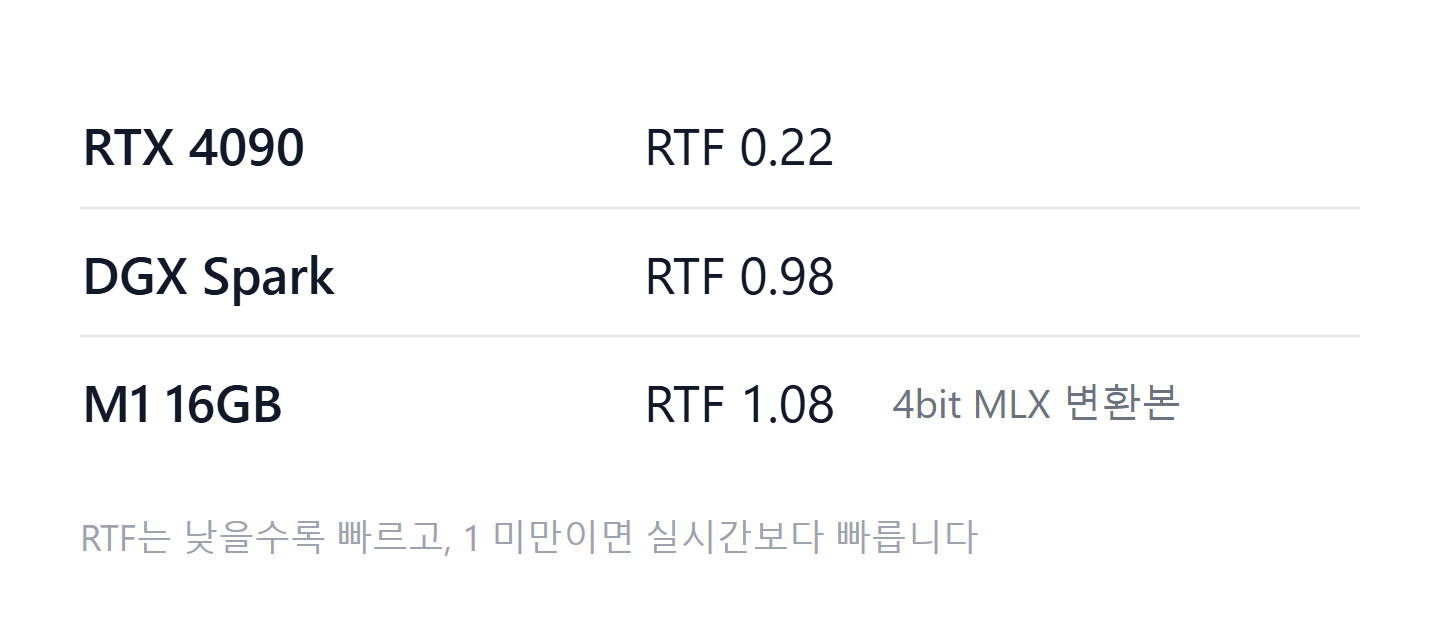
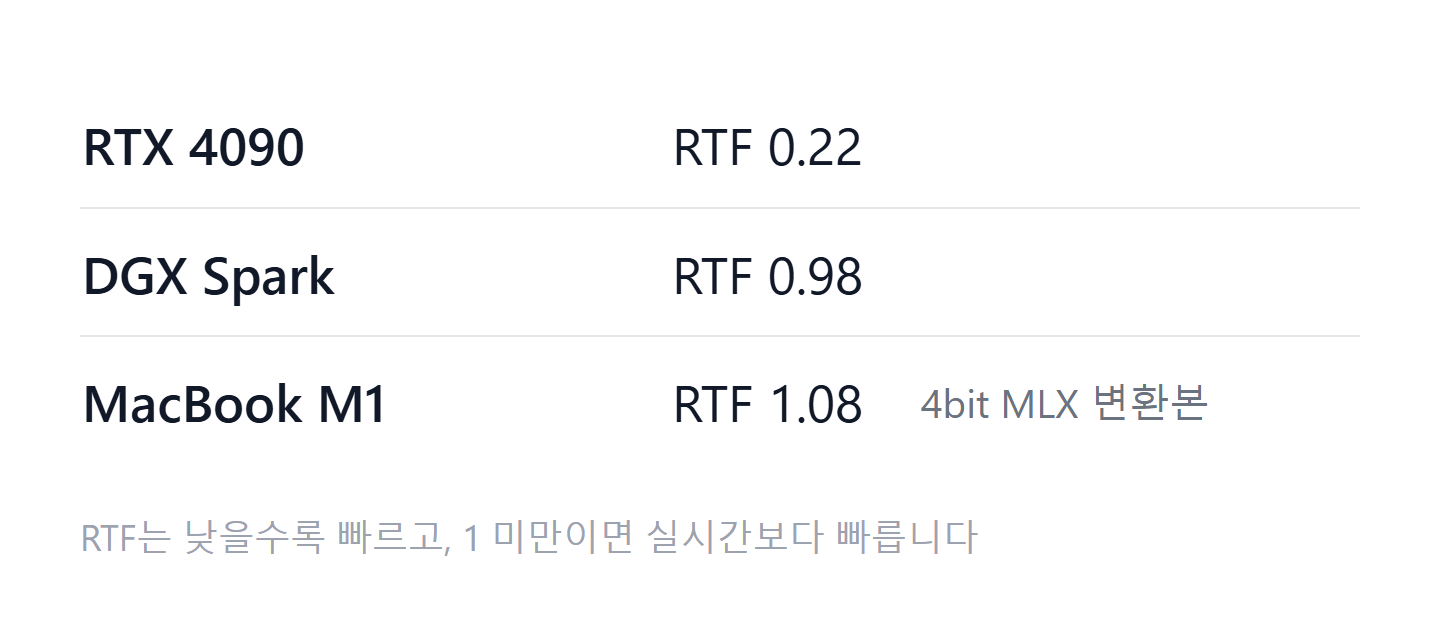
Release v0.0.4

diff --git a/releases/speaker-diarization-vibevoice/report.md b/releases/speaker-diarization-vibevoice/report.md
@@ -1,201 +1,163 @@
-# 세 머신에서 돌린 VibeVoice-ASR
+# VibeVoice-ASR 긴 회의 전사 리포트
 
-## 1. 무엇인가
+## 1. 한 줄 정의
 
-회의를 받아 적으면서 누가 말했는지 표시하고 모든 구간에 타임스탬프를 붙이는 Microsoft의
-음성 인식 모델이다. 최대 60분 길이의 오디오를 한 번에 처리한다.
+`microsoft/VibeVoice-ASR`는 최대 60분 길이의 오디오를 한 번에 받아, 누가(화자)·언제(타임스탬프)·무엇을(내용) 말했는지를 하나의 생성 결과로 내놓는 Microsoft의 음성 인식 모델이다.
 
 ## 2. 무엇이 다른가
 
-두 가지이고, 아래 벤치마크가 실제로 다루는 것은 두 번째다.
+첫째, 전사·화자 분리·타임스탬프가 하나의 디코딩이다. 기존 파이프라인이 VAD, ASR, diarization 모델을 이어 붙이는 것과 달리, 논문은 이 모델이 "unifies Automatic Speech Recognition, Speaker Diarization, and Timestamping into a single end-to-end generation task"라고 설명한다. 출력은 "a structured sequence that explicitly interleaves speaker identity ('Who'), temporal boundaries ('When'), and speech content ('What')"이다.
 
-**7.5 Hz 토크나이저.** 24000 Hz 오디오를 hop length 3200으로 압축해 초당 7.5개 토큰으로
-만든다. 그래서 한 시간 분량의 음성이 프레임 단위 모델이라면 수십만 개가 될 토큰 대신
-27000개의 음향 토큰이 된다. 한 시간이 컨텍스트 윈도우 안에 들어갈 수 있는 이유가 이것이다.
+둘째, 오디오를 청크로 잘라 따로 판단하지 않는다. Acoustic Tokenizer와 Semantic Tokenizer가 오디오를 초당 약 7.5 토큰의 연속 임베딩으로 줄이고, 이 낮은 토큰율 덕분에 60분 오디오가 64K 토큰 컨텍스트 하나에 들어간다. 내부적으로는 60초 단위로 인코딩하지만 합성곱 상태를 이어 받아 청크 경계에서 컨텍스트가 끊기지 않는다(예제 `README.md`의 "How it works").
 
+```mermaid
+flowchart LR
+  audio["오디오 (최대 60분)"] --> acoustic["Acoustic Tokenizer"]
+  audio --> semantic["Semantic Tokenizer"]
+  acoustic --> embeddings["연속 임베딩<br/>약 7.5 토큰/초"]
+  semantic --> embeddings
+  prompt["핫워드·배경 정보<br/>(context_info)"] --> llm
+  embeddings --> llm["decoder-only LLM<br/>(논문: e.g., Qwen 2.5)"]
+  llm --> output["Who · When · What<br/>교차 출력 한 번"]
 ```
-24000 Hz audio ─▶ acoustic tokenizer ─┐
-                                      ├─▶ Qwen2 decoder ─▶ text, speaker, timestamps
-                  semantic tokenizer ──┘   28 layers, hidden 3584, 4 key-value heads
-                     both at 7.5 Hz
-```
 
-**파이프라인이 아니라 한 번의 디코딩.** 보통은 받아 적는 모델과 별도의 화자 분리 모델을
-돌린 뒤 두 출력을 맞춘다. 여기서는 한 번의 디코딩에서 단어, 화자, 시각이 함께 나온다.
-아래 정확도 절이 word error rate만이 아니라 tcpWER을 보고하는 이유다. word error rate는
-이 모델이 내놓는 것의 3분의 1만 채점한다.
-
-체크포인트는 8,674,021,857개 파라미터, `bfloat16` 기준 17.35 GB이고 모듈별로 고르게
-나뉘어 있지 않다.
-
-| 모듈 | 크기 | 비중 |
-|---|---|---|
-| `model.language_model` | 14.14 GB | 81.5% |
-| `model.acoustic_tokenizer` | 1.37 GB | 7.9% |
-| `lm_head` | 1.09 GB | 6.3% |
-| `model.semantic_tokenizer` | 0.69 GB | 4.0% |
-| 커넥터 | 0.06 GB | 0.4% |
-
-추정치가 아니라 체크포인트의 가중치 인덱스에서 직접 읽은 값이다. 5절에서 이 값이 중요해진다.
+출처: [arXiv:2601.18184](https://arxiv.org/abs/2601.18184), [`microsoft/VibeVoice-ASR` 모델 카드](https://huggingface.co/microsoft/VibeVoice-ASR).
 
 ## 3. 무엇을 만들었나
 
-`releases/speaker-diarization-vibevoice`는 모델을 HTTP 엔드포인트와 웹 인터페이스에 연결하는
-`model-compose.yml`이다. 오디오 파일을 올리고 필요하면 핫워드를 넣으면, 화자별로 색이
-구분된 구간 목록과 타임라인이 나온다.
+`model-compose` 예제 `speaker-diarization-vibevoice`는 오디오 파일 하나를 떨어뜨리면 `transcribe-meeting` 워크플로우를 WebSocket으로 호출하고, 돌아온 `{ text, start_time, end_time, speaker_id }` 세그먼트를 화자별 색상 타임라인과 세그먼트 목록으로 동시에 그린다. 타임라인은 실제 시작·종료 시각에 맞춰 배치되므로 대본을 읽지 않고도 누가 얼마나 길게, 누구 말을 끊고 말했는지가 보인다. 핫워드 입력란은 도메인 용어를 `context_info`로 모델에 넘긴다.
 
-![화자별로 색이 구분된 구간 목록, 타임라인, 선택한 구간의 텍스트를 보여주는 전사 인터페이스](media/speaker-diarization-vibevoice.png)
+![speaker-diarization-vibevoice 화면](media/speaker-diarization-vibevoice.png)
 
-화면의 샘플 데이터는 손으로 쓴 픽스처가 아니라 이 리포트의 AMI 실측 결과다. 이렇게 바꾸면서
-손으로 쓴 픽스처가 가리고 있던 결함 두 개가 드러났다. 모델은 화자가 없는 비음성 이벤트를
-별도 구간으로 내보내는데 이것이 `Speaker NaN`으로 렌더링됐고, 인터페이스에는 구간의 전체
-텍스트를 읽을 곳이 없었다. 목록은 텍스트를 자르고, 옆 패널에는 타임라인만 있었다.
+이 스크린샷은 라이브 서버가 아니라 `ui/fixture.json`으로 렌더링한 화면이다(하단 "Showing sample output"). fixture의 세그먼트는 아래 4장의 RTX 4090 실행 전사(`benchmarks/transcripts/rtx-4090.json`) 앞부분과 같다. 두 번째 발화가 "so you can see"로, DGX Spark 전사의 "so people can see"가 아니라 4090 쪽과 일치한다.
 
-발견하기 전에 밝혀둘 캡처 한계가 있다. `position: fixed` 콘텐츠는 화면에 실제로 열려 있어도
-헤드리스 캡처에 그려지지 않는다. 그래서 여기 실린 미디어는 제대로 캡처되는 상태, 즉 팝오버가
-닫힌 상태를 기준으로 연출했다.
+데모 영상은 이번에 만들지 않았다. 녹화하게 되면 헤드리스 캡처의 한계를 알고 시작해야 한다. `position: fixed`로 뜨는 팝오버(드롭다운 메뉴, 색상 선택기)는 화면에 열려 있어도 헤드리스 `screenshot`이나 screencast 프레임에 그려지지 않는 경우가 많다. 이 화면에는 그런 팝오버가 없지만, 나중에 추가된다면 닫힌 상태나 선택 결과가 이미 반영된 상태로 녹화 흐름을 짜야 한다.
 
 ## 4. 성능
 
-모든 머신에서 같은 오디오 파일 하나를 썼다. AMI 회의 ES2004a, 헤드셋 믹스, 1049.35초
-(17.5분), 화자 4명이며 AMI 코퍼스에서 내려받았다.
+### 조건
 
-| 머신 | 런타임 | 빌드 | 수치 형식 | 콜드 스타트 | TTFO | E2E | RTF | 최대 가속기 메모리 | 최대 상주 메모리 |
-|---|---|---|---|---|---|---|---|---|---|
-| RTX 4090 | model-compose + pytorch 2.11.0+cu128 | `microsoft/VibeVoice-ASR` | `bfloat16` | 17.50 s | = E2E | 233.53 s | **0.223** | 22134 MB | 3064 MB |
-| DGX Spark (GB10) | model-compose + pytorch 2.14.0+cu130 | `microsoft/VibeVoice-ASR` | `bfloat16` | 94.76 s | = E2E | 1023.93 s | **0.976** | 23777 MB | 3456 MB |
-| MacBook Air M1 | mlx-audio | `mlx-community/VibeVoice-ASR-4bit` | `int4/mlx`, 토크나이저와 커넥터 제외 | 4.60 s | 225.36 s | 1134.33 s | **1.081** | 13852 MB | 5957 MB |
-
-**4090은 17.5분짜리 회의를 4분 안에 받아 적는다. Spark는 17.1분이 걸려 직접 듣는 것보다
-겨우 빠르고, M1은 실시간보다 느리다.** RTF 1.0 미만이면 라이브 오디오를 따라잡을 수 있는데,
-셋 중 여유 있게 따라잡는 머신은 하나뿐이다.
-
-TTFO와 E2E가 다른 머신은 M1뿐이다. MLX 빌드는 디코딩하면서 텍스트를 스트리밍하므로 18.9분
-실행 중 3.8분 만에 첫 단어가 나온다. `model-compose` 워크플로우는 출력을 `as json`으로
-선언해 완성된 값을 한 번에 돌려주므로, 두 열이 같은 것은 속도 때문이 아니라 구조 때문이다.
-
-세 열은 행마다 의미가 달라지고, 표는 그 사실을 감출 수 없다.
-
-| 열 | 이 행들 사이에서 |
-|---|---|
-| 콜드 스타트 | 비교 불가. 러너가 둘이고 하나는 compose 스택을 올리고 하나는 모델만 로드한다. M1은 5.71 GB를 로드하고 나머지는 17.35 GB를 로드한다 |
-| RTF, E2E | 실제로 받는 성능으로는 비교 가능하지만 하드웨어 순위로는 비교 불가 |
-| 메모리 | 4090은 비디오 메모리, Spark와 M1은 시스템과 공유하는 통합 메모리 |
-
-M1 행은 나머지 두 행과 같은 측정이 아니다. CUDA에서 레퍼런스 체크포인트를 돌린 것이 아니라
-Metal 커널에서 4-bit MLX 변환본을 돌렸다. 그래서 M1과 Spark의 차이에는 하드웨어와 빌드가
-섞여 있고, 이 표는 둘을 분리하지 못한다. 이 행이 보여주는 것은 16 GB 노트북에서도 332 MB의
-스왑만으로 이 모델이 돌아간다는 사실이다.
-
-### 길이가 늘면 비용은 선형보다 더 늘어난다
-
-같은 머신, 같은 모델, 두 가지 오디오 길이다.
-
-| 오디오 | RTF | 최대 비디오 메모리 |
+| 항목 | 값 | 출처 |
 |---|---|---|
-| 60 s | 0.111 | 19298 MB |
-| 1049 s | 0.223 | 22134 MB |
+| 입력 오디오 | AMI `ES2004a` 한 세션 전체, 1049.35초(약 17분 29초) | `benchmarks/results/*.json`의 `conditions.audio_duration_seconds`, 전사 끝 시각과 `benchmarks/transcripts/ES2004a.reference.json` |
+| 배치 | 1 | `conditions.batch` |
+| 음향 토크나이저 청크 | 1,440,000 샘플 | `conditions.acoustic_tokenizer_chunk_size` |
+| 워크플로우 설정 | `precision: auto`, `attn_implementation: sdpa`, `temperature: 0.0`, `num_beams: 1`, `streaming: false` | `model-compose.yml` |
 
-오디오가 17배 길어지자 RTF는 두 배가 되고 메모리는 2.8 GB 늘었다. 어텐션은 시퀀스 길이의
-제곱으로, key-value 캐시는 선형으로 커진다. 이 디코더의 key-value 캐시는 토큰당 57.3 KB다.
-따라서 "60분을 한 번에"라는 주장은 컨텍스트 윈도우에 들어간다는 뜻이지 비용이 일정하다는
-뜻이 아니다.
+### 머신별 속도와 메모리
+
+| 머신 | 런타임 | 빌드 | 수치 형식 | 콜드 스타트 | TTFO | E2E | RTF | 최대 VRAM | 최대 RSS |
+|---|---|---|---|---|---|---|---|---|---|
+| RTX 4090 | `model-compose + pytorch 2.11.0+cu128` | `microsoft/VibeVoice-ASR` | `bfloat16` | 17.50 s | 233.53 s | 233.53 s | 0.2225 | 22,134 MB | 3,064 MB |
+| DGX Spark | `model-compose + pytorch 2.14.0+cu130` | `microsoft/VibeVoice-ASR` | `bfloat16` | 94.76 s | 1023.93 s | 1023.93 s | 0.9758 | 23,777 MB | 3,456 MB |
+| MacBook M1 | `mlx-audio` | `mlx-community/VibeVoice-ASR-4bit` | `int4/mlx, all but acoustic_tokenizer and semantic_tokenizer and acoustic_connector and semantic_connector, compute bfloat16` | 4.60 s | 225.36 s | 1134.33 s | 1.081 | 13,852.5 MB | 5,957 MB |
+
+출처: `benchmarks/results/rtx-4090.json`, `dgx-spark.json`, `macbook-m1.json`. 세 실행 모두 `valid: true`, `errors: []`.
+
+RTF는 RTX 4090이 0.22로 가장 빠르다. 17분 29초짜리 회의를 3분 54초에 끝냈으니 실시간보다 약 4.5배 빠르다. DGX Spark는 같은 체크포인트, 같은 `bfloat16`으로 17분 4초가 걸려 RTF 0.98, 실시간과 거의 같은 속도였다. 두 CUDA 머신은 수치 형식과 빌드가 같지만 PyTorch·CUDA 버전(`2.11.0+cu128` 대 `2.14.0+cu130`)이 다르므로, 이 4.4배 차이를 순수한 GPU 성능 차이로 읽을 수는 없다. 이 표만으로는 하드웨어와 소프트웨어 스택의 몫을 나누지 못한다.
+
+MacBook M1은 4-bit MLX 변환본을 `mlx-audio`로 돌린 결과다. 4-bit MLX 변환본을 돌린 맥은 `bfloat16` PyTorch 체크포인트를 돌린 4090보다 E2E가 약 4.9배 길었고, RTF 1.08로 실시간보다 조금 느렸다. 이 차이에는 하드웨어, 빌드, 추론 스택이 함께 섞여 있고 이 표로는 셋을 분리할 수 없다.
+
+런타임이 다른 행끼리는 세 열의 의미가 달라진다.
+
+| 열 | 런타임이 다를 때 |
+|---|---|
+| 콜드 스타트 | 비교 불가. `model-compose` 행은 virtualenv 컴포넌트를 띄워 모델을 올리는 시간이고, `mlx-audio` 행은 다른 방식으로 스택을 올린 시간이다. 맥의 4.60 s가 빠르다는 뜻이 아니다 |
+| TTFO, E2E, RTF | 실제로 받는 성능으로는 비교 가능, 하드웨어 순위로는 비교 불가 |
+| 정확도 | 비교 불가. 같은 구현이 느리게 도는 것이 아니라 다른 구현이다 |
+
+TTFO는 두 PyTorch 행에서 E2E와 같다. `streaming: false`라 결과가 한 번에 나오기 때문이다. 맥 행의 TTFO 225.36 s는 `mlx-audio`가 토큰을 흘려 보내는 첫 시점이라 PyTorch 행의 TTFO와 같은 사건이 아니다.
+
+메모리는 VRAM과 RSS를 함께 봐야 한다. RTX 4090은 전용 VRAM이 있는 카드라 두 수치가 다른 메모리를 가리키고, 가중치는 VRAM 쪽 22,134 MB에 있다. DGX Spark(128GB unified LPDDR5X, [NVIDIA](https://www.nvidia.com/en-us/products/workstations/dgx-spark/))와 MacBook M1은 통합 메모리라 VRAM과 RSS가 같은 바이트를 두 번 셀 수 있다. 두 수치를 더해 총 사용량으로 읽으면 안 된다. 맥의 VRAM 열은 `mlx.core.get_peak_memory()` 계열의 MLX 피크이고, 4-bit 변환본의 공개 크기는 5.71 GB다([모델 카드](https://huggingface.co/mlx-community/VibeVoice-ASR-4bit)).
+
+VRAM 수치에는 한 가지 확인하지 못한 점이 있다. 이 예제의 컴포넌트는 `runtime: type: virtualenv`로 별도 프로세스에서 모델을 올리므로, 벤치마크 러너 자신의 프로세스에서 읽은 CUDA 메모리는 0이어야 한다. 결과 파일의 값은 0이 아니므로 다른 경로로 읽혔다고 보이지만, 어느 프로세스에서 어떤 API로 읽었는지는 결과 파일에 기록되어 있지 않다.
+
+RTF는 오디오 길이에 따라 달라진다. 같은 RTX 4090에서 60초 스모크 실행(`benchmarks/results/rtx-4090-smoke.json`, `bfloat16`, 배치 1)은 RTF 0.1109였고, 1049.35초 실행은 0.2225였다. 그래서 위 표의 RTF는 17분 29초 오디오에서만 유효하고, 한 시간짜리 녹음 시간을 여기서 곱해 추정해서는 안 된다.
+
+이 표는 `precision: auto`가 CUDA에서 고른 `bfloat16` 그대로의 결과다. `benchmark.md`가 권하는 `float16` 강제 실행으로 맞춘 비교표는 측정하지 않았다. 두 CUDA 행은 이미 같은 `bfloat16`이라 서로 수치 형식이 맞고, 설치한 그대로 받는 성능이기도 하므로 표 하나를 본문에 두었다. MPS에서 `auto`가 고르는 `float16`으로 `model-compose`를 돌린 맥 행은 없다.
 
 ### 정확도
 
-모든 머신의 전사 결과를 같은 회의의 AMI 수동 단어 주석과 대조해 MeetEval로 채점했다. 원래
-세 대를 모두 채점할 계획은 아니었다. 처음 두 대의 결과가 서로 달랐기 때문에 계획이 바뀌었다.
+채점은 `meeteval`로 했고, 정규화기는 `transformers EnglishTextNormalizer`, tcpWER collar는 5.0초다. 기준 전사는 `ES2004a` 한 세션, 2,505 단어다. 결과 파일에는 마이크 조건(IHM 헤드셋 믹스인지 SDM 원거리 마이크인지)이 기록되어 있지 않아 이 리포트도 적지 않는다.
 
-| 머신 | 수치 형식 | WER | cpWER | tcpWER | 구간 수 |
-|---|---|---|---|---|---|
-| RTX 4090 | `bfloat16` | 17.88% | 17.51% | 18.18% | 152 |
-| DGX Spark | `bfloat16` | 17.66% | 17.17% | 17.51% | 153 |
-| MacBook M1 | `int4/mlx` | 17.47% | 17.28% | 17.66% | 149 |
-| *공개 수치* | *`ami_test`* | *17.20%* | *없음* | *없음* | — |
+기준 체크포인트 두 머신(같은 `microsoft/VibeVoice-ASR`, 같은 `bfloat16`, 같은 `model-compose + pytorch` 스택):
 
-**같은 체크포인트를 같은 정밀도로 돌린 두 머신이 서로 다른 전사 결과를 냈다.** `bfloat16`은
-정밀도가 낮아서 커널이나 연산 순서가 달라지면 토큰 하나가 뒤집히고, 뒤집힌 토큰 하나가 그
-뒤의 디코딩 전체를 바꾼다. 4090은 AD102에서 PyTorch 2.11.0+cu128을, Spark는 GB10에서
-2.14.0+cu130을 돌렸다. GB10은 `sm_121`이고 aarch64용 cu128 휠이 없기 때문이다. 따라서
-같은 가중치, 같은 입력이면 같은 출력이 나오니 정확도는 한 번만 재면 된다는 흔한 가정은 여기서
-성립하지 않는다. 차이는 노이즈로 봐도 될 만큼 작지만, 그것은 가정이 아니라 측정으로 얻은
-결론이다.
+| 머신 | 런타임 | 수치 형식 | tcpWER | cpWER | WER | 출력 세그먼트 | 제외한 비음성 세그먼트 |
+|---|---|---|---|---|---|---|---|
+| RTX 4090 | `model-compose + pytorch 2.11.0+cu128` | `bfloat16` | 18.18% | 17.51% | 17.88% | 152 | 26 |
+| DGX Spark | `model-compose + pytorch 2.14.0+cu130` | `bfloat16` | 17.51% | 17.17% | 17.66% | 153 | 23 |
+| 두 머신 차이 | | | 0.67 pt | 0.33 pt | 0.22 pt | | |
 
-**4-bit 빌드가 가장 나쁜 행이 아니다.** 세 수치 모두 `bfloat16` 두 머신이 이미 만든 범위
-안에 들어가고, WER로는 셋 중 가장 좋다. 4-bit 양자화가 이 모델의 단어 정확도에서 깎은 것이
-무엇이든, 레퍼런스 체크포인트를 돌린 CUDA 머신 두 대 사이의 차이보다 작다. `mlx-community`는
-변환 빌드 중 어느 것에도 평가 수치를 공개하지 않으므로, 이 리포트에서 이런 종류의 수치는
-이것 하나뿐이다.
+출처: `benchmarks/accuracy/accuracy-rtx-4090.json`, `accuracy-dgx-spark.json`.
 
-이 결론은 기준선이 둘 있었기에 나왔다. 하나만 쟀다면 공개 수치 17.20% 대비 17.47%는 0.27%p의
-양자화 손실로 읽혔을 것이다.
+같은 가중치, 같은 수치 형식인데도 두 머신의 전사가 달랐다. 앞부분에서 한 머신은 "so you can see", 다른 머신은 "so people can see"로 받아 적었고, 이런 토큰 하나의 차이가 이후 디코딩을 바꿔 tcpWER로 0.67 pt 벌어졌다. 이 폭이 이 세션에서의 잡음 바닥이다. 이보다 작은 차이를 정밀도나 양자화 탓으로 돌리면 안 된다.
 
-**공개 수치 17.20% 대비 17.88%는 발견이 아니라 셋업이 맞다는 확인이다.** `microsoft/VibeVoice-ASR-HF`
-모델 카드의 Open ASR Leaderboard 표는 `ami_test` 17.20%, 8개 데이터셋 평균 7.77%, RTFx
-51.80을 제시한다. AMI는 그 표에서 가장 나쁜 행이지만 회의 전사기가 바로 AMI가 재는 대상이므로
-본문에 둔다. 리더보드는 미리 잘라둔 발화를 채점하고, 여기서는 회의 전체를 한 번에 디코딩했으니
-더 어려운 문제다. 모델 카드는 그 행이 어떤 마이크 조건인지도 밝히지 않는다. 조건이 이만큼
-다른데도 결과가 이만큼 가깝다는 것은 파이프라인이 제대로 돌았다는 뜻이다. 모델이 엉터리를
-내놓았어도 위의 시간 수치는 똑같아 보였을 테니, 이것을 잰 이유가 바로 이 확인이다.
+머리 지표는 tcpWER이다. 이 모델은 전사, 화자, 시간을 한 번에 내놓으므로 WER은 그 절반만 채점한다. cpWER과 tcpWER의 차이(4090 0.67 pt, DGX Spark 0.34 pt)가 타임스탬프 오차의 크기이고, 5초 collar 안에서는 작다. WER은 전사만 하는 모델과 비교하기 위해 함께 적는다.
 
-**모든 머신에서 tcpWER은 cpWER과 0.67%p 이내이고, 그 차이가 타임스탬프 오차의 크기다.**
-시간 제약을 더해도 점수가 거의 움직이지 않으므로, 모델은 단어를 자기가 말한 위치 근처에
-배치한다. 두 지표 모두 공개된 비교 수치가 없다.
+MLX 4-bit 변환본(별도 구현, 위 표와 비교 불가):
 
-레퍼런스와 가설 양쪽에 똑같이 두 가지 정규화를 적용했다.
+| 머신 | 런타임 | 빌드 | 수치 형식 | tcpWER | cpWER | WER | 출력 세그먼트 |
+|---|---|---|---|---|---|---|---|
+| MacBook M1 | `mlx-audio` | `mlx-community/VibeVoice-ASR-4bit` | `int4/mlx, all but acoustic_tokenizer and semantic_tokenizer and acoustic_connector and semantic_connector, compute bfloat16` | 17.66% | 17.28% | 17.47% | 149 |
 
-| 단계 | 효과 |
-|---|---|
-| `EnglishTextNormalizer` | Open ASR Leaderboard가 적용하는 정규화기 |
-| 비음성 구간 제외 | 179개 중 26개. `[Breathing]`, `[Music]` 같은 것으로, AMI는 이를 전사하지 않으므로 남겨두면 각각 삽입된 단어로 채점된다 |
+출처: `benchmarks/accuracy/accuracy-macbook-m1.json`.
 
-### 공개된 RTFx는 이 표의 RTF가 아니다
+`mlx-community/VibeVoice-ASR-4bit` 모델 카드는 정확도 평가를 하나도 싣지 않는다. 그래서 위 행은 이 변환본에 대해 공개된 유일한 점수다. 다만 PyTorch 체크포인트와는 커널, 연산 융합, 양자화 구현이 모두 다른 코드가 낸 점수다. 기준 두 머신 사이 폭 안에 들어간다는 사실을 "4-bit 양자화에 손실이 없다"는 근거로 읽으면 안 된다. 한 세션, 한 번의 실행으로는 그 판단을 뒷받침할 수 없다.
 
-리더보드의 RTFx 51.80은 RTF 0.0193의 역수다. 여기서 4090은 RTF 0.223, 즉 RTFx 4.49를
-기록했다. 12배 차이지만 조건이 거의 겹치지 않는다. 짧게 잘린 클립과 17.5분 단일 처리, 배치
-처리량과 `batch: 1`, 그들의 하드웨어와 우리의 하드웨어. 두 수치는 같은 리포트에 있어야 하지만
-같은 열에 있어서는 안 된다.
+### 공개 수치와의 대조
+
+| 공개 수치 | 값 | 이 측정과 다른 점 |
+|---|---|---|
+| Open ASR Leaderboard `ami_test` WER ([`microsoft/VibeVoice-ASR-HF`](https://huggingface.co/microsoft/VibeVoice-ASR-HF)) | 17.20% | 카드는 행 이름을 `ami_test`로만 적고 마이크 조건을 밝히지 않는다. 리더보드는 미리 잘라 둔 발화 단위로 채점하고, 이 측정은 17분 29초 회의 한 개를 통째로 넣었다. 채점기도 리더보드 하네스가 아니라 `meeteval`이다 |
+| 논문 Table 2, AMI-IHM ([arXiv:2601.18184](https://arxiv.org/abs/2601.18184)) | DER 11.92, cpWER 20.41, tcpWER 20.82, WER 18.81 | 논문은 평가 세션, collar, 정규화기, 긴 녹음 통째 여부를 밝히지 않는다 |
+| 논문 Table 2, AMI-SDM | DER 13.43, cpWER 28.82, tcpWER 29.80, WER 24.65 | 위와 같다 |
+
+로컬 WER 17.66–17.88%는 리더보드의 `ami_test` 17.20%와 0.5–0.7 pt 차이다. 더 어려운 통짜 긴 녹음 조건에서 채점했다는 점을 감안하면 하네스 설정이 틀렸다고 볼 거리는 없다. 논문의 AMI tcpWER과는 조건이 확인되지 않으므로 수치를 나란히 두기만 하고, 로컬 결과가 어느 마이크 조건에 가깝다는 결론은 내리지 않는다.
+
+`ami_test` 17.20%는 리더보드 8개 데이터셋 중 가장 나쁜 행이다(평균 7.77%, `librispeech_test.clean` 2.20%). 이 데모의 도메인이 바로 회의이므로 평균이 아니라 이 행이 이 데모에 해당하는 수치다.
 
 ## 5. 한계
 
-**60분은 컨텍스트 윈도우에 대한 주장이지 메모리에 대한 주장이 아니다.** 17.5분에서 이미
-24564 MB 카드의 22134 MB를 썼다. key-value 캐시가 토큰당 57.3 KB씩 늘어나므로, 27000개
-음향 토큰에 텍스트까지 더한 한 시간 분량은 24 GB에 들어가지 않는다. 이 머신이 모델 카드가
-말하는 일을 해낼 수 있는지는 이번 실행으로 결론 나지 않은 질문이다.
+### 모델이 못 하는 것
 
-**6 GB 카드로는 양자화해도 돌릴 수 없다.** 6141 MiB의 RTX 4050 Laptop은 실행 실패가 아니라
-계산으로 표에서 빠졌다. 백본을 `nf4`로 양자화하면 3.65 GB가 남고, 양자화하면 파형 복원이
-망가지는 모듈이 3.21 GB를 더해, 활성값 하나 올리기 전에 가중치만 6.86 GB로 6.00 GB를 넘는다.
-`lm_head`까지 양자화해도 6.05 GB다. 들어가는 구성은 시스템 메모리로 오프로드하는 것뿐인데,
-그러면 머신이 아니라 오프로드를 재게 된다.
+논문이 스스로 적은 한계는 두 가지다.
 
-**16 GB Mac에는 변환 빌드가 필요하다.** `mlx-community`는 `bf16` 17.35 GB, 8-bit 9.52 GB,
-4-bit 5.71 GB 빌드를 공개한다. 여기서는 4-bit 빌드가 332 MB 스왑으로 돌아갔다.
-bitsandbytes는 CUDA 커널만 컴파일하므로 이 빌드를 만들 수 없다. 그래서 경로는 MLX이고, 그
-결과로 나온 행은 CUDA 행과 직접 비교할 수 없다.
+- 겹치는 발화: "The current architecture generates a serialized output stream and does not explicitly handle overlapping speech (the 'cocktail party problem')." (번역: 현재 구조는 직렬화된 출력 스트림을 생성하며 겹치는 발화('칵테일 파티 문제')를 명시적으로 처리하지 않는다.) 회의에서 두 사람이 동시에 말하는 구간은 한 줄로 합쳐지거나 한쪽이 빠질 수 있다.
+- 언어: "the SFT phase predominantly focused on English, Chinese, and code-switching data. Consequently, the model may experience performance degradation on low-resource languages absent from the instruction tuning stage." (번역: SFT 단계는 주로 영어, 중국어, 코드 스위칭 데이터에 집중했다. 따라서 지시 튜닝 단계에 없던 저자원 언어에서는 성능이 떨어질 수 있다.)
 
-**두 머신은 같은 PyTorch를 돌릴 수 없다.** GB10은 `sm_121`이라 CUDA 13이 필요하고, aarch64용
-cu128 휠은 공개되지 않았다. 4090과 Spark 사이 1.6 GB 메모리 차이의 일부는 하드웨어가 아니라
-빌드 몫이며, 이번 실행은 둘을 분리하지 않는다.
+### 주의할 점
 
-**라이선스와 사용 범위.** 모델 카드는 다음과 같이 밝힌다.
+- 이 리포트의 정확도는 영어 회의 한 세션(`ES2004a`, 2,505 단어)에서 나온 수치다. 두 CUDA 머신만으로 tcpWER이 0.67 pt 흔들렸으므로, 세션 하나의 점수를 모델의 일반적인 회의 정확도로 옮기면 안 된다.
+- 출력에는 `[Breathing]`, `[Music]`, `[Unintelligible Speech]` 같은 비음성 세그먼트가 `speaker_id` 없이 섞여 나온다. 채점에서는 머신별로 22–26개를 제외했다. 화면은 이를 "Unattributed"로 표시한다.
+- 이 예제 그대로(`model-compose` + PyTorch)는 Apple Silicon에서 측정하지 않았다. 표의 MacBook M1 행은 이 예제가 아니라 `mlx-audio`로 `mlx-community/VibeVoice-ASR-4bit`를 직접 돌린 결과다. 맥 사용자가 실제로 쓸 수 있는 것으로 확인된 빌드는 이쪽이다. 그 출력은 `{ Start, End, Speaker, Content }` 형태의 JSON 텍스트라서 `model-compose` 워크플로우가 돌려주는 `{ text, start_time, end_time, speaker_id }`와 다르다.
+- 맥 행의 RTF는 1.08로 실시간보다 느리다. 17분 29초 녹음에 18분 54초가 걸렸다.
+- RTX 4090 실행의 최대 VRAM은 22,134 MB였다. 4090의 전용 메모리가 24GB라 여유가 크지 않고, 이보다 긴 녹음에서 얼마나 늘어나는지는 측정하지 않았다.
 
-> "This project is licensed under the MIT License."
+### 라이선스와 사용 범위
+
+라이선스는 MIT다([`microsoft/VibeVoice-ASR` 모델 카드](https://huggingface.co/microsoft/VibeVoice-ASR), [`mlx-community/VibeVoice-ASR-4bit` 모델 카드](https://huggingface.co/mlx-community/VibeVoice-ASR-4bit)).
+
+`microsoft/VibeVoice-ASR` Hugging Face 모델 카드와 GitHub의 [`docs/vibevoice-asr.md`](https://github.com/microsoft/VibeVoice/blob/main/docs/vibevoice-asr.md)에는 사용 범위 제한 문구가 없다. 확인하고 없다는 뜻이다. 이 모델을 담고 있는 [`microsoft/VibeVoice`](https://github.com/microsoft/VibeVoice) 저장소 README에는 아래 "Risks and Limitations" 절이 있다. 이 절은 ASR을 따로 지목하지 않고, 합성 음성과 TTS 쪽 베이스 모델(Qwen2.5 1.5b)을 언급하는 저장소 전체 문구다. 그래도 같은 저장소가 이 모델을 배포하므로 원문 그대로 옮긴다.
+
+> While efforts have been made to optimize it through various techniques, it may still produce outputs that are unexpected, biased, or inaccurate. VibeVoice inherits any biases, errors, or omissions produced by its base model (specifically, Qwen2.5 1.5b in this release).
+> Potential for Deepfakes and Disinformation: High-quality synthetic speech can be misused to create convincing fake audio content for impersonation, fraud, or spreading disinformation. Users must ensure transcripts are reliable, check content accuracy, and avoid using generated content in misleading ways. Users are expected to use the generated content and to deploy the models in a lawful manner, in full compliance with all applicable laws and regulations in the relevant jurisdictions. It is best practice to disclose the use of AI when sharing AI-generated content.
 >
-> 번역: "이 프로젝트는 MIT 라이선스로 배포된다."
+> We do not recommend using VibeVoice in commercial or real-world applications without further testing and development. This model is intended for research and development purposes only. Please use responsibly.
 
-사용 범위 밖의 용도, 배포 제한, 책임 있는 AI 관련 제약은 명시하지 않는다. 확인하지 않은
-항목과 확인했더니 비어 있던 항목은 밝히지 않으면 똑같이 읽히므로, 그 부재를 여기에 적어 둔다.
+번역: 여러 기법으로 최적화하려 노력했지만, 여전히 예상치 못하거나 편향되거나 부정확한 출력을 낼 수 있다. VibeVoice는 베이스 모델(이번 릴리스에서는 Qwen2.5 1.5b)이 만든 편향, 오류, 누락을 그대로 물려받는다. 딥페이크와 허위 정보 가능성: 고품질 합성 음성은 사칭, 사기, 허위 정보 유포를 위한 그럴듯한 가짜 오디오를 만드는 데 악용될 수 있다. 사용자는 전사가 신뢰할 만한지 확인하고, 내용의 정확성을 점검하며, 생성된 콘텐츠를 오해를 부르는 방식으로 쓰지 않아야 한다. 사용자는 해당 관할권의 모든 법규를 완전히 준수하는 합법적인 방식으로 생성 콘텐츠를 사용하고 모델을 배포해야 한다. AI 생성 콘텐츠를 공유할 때는 AI 사용 사실을 밝히는 것이 바람직하다.
+
+추가 테스트와 개발 없이 VibeVoice를 상업용이나 실제 서비스에 쓰는 것을 권장하지 않는다. 이 모델은 연구 개발 목적으로만 만들어졌다. 책임감 있게 사용하라.
+
+MIT 라이선스가 상업적 사용을 허락한다는 사실과, 저자가 추가 테스트 없는 실사용을 권하지 않는다는 사실은 동시에 참이다. 이 리포트의 수치는 둘 중 어느 쪽도 바꾸지 않는다.
 
 ## 6. 링크
 
-| 항목 | 위치 |
+| 대상 | 링크 |
 |---|---|
-| 예제 | `releases/speaker-diarization-vibevoice` |
-| 모델 카드 | https://huggingface.co/microsoft/VibeVoice-ASR |
-| 리더보드 수치 | https://huggingface.co/microsoft/VibeVoice-ASR-HF |
-| 기술 리포트 | https://arxiv.org/abs/2601.18184 |
-| Open ASR Leaderboard | https://arxiv.org/abs/2510.06961 |
-| MeetEval | https://github.com/fgnt/meeteval |
-| AMI 코퍼스 | https://groups.inf.ed.ac.uk/ami/corpus/ |
-| 이 리포트로 작성한 X 포스트 | `releases/speaker-diarization-vibevoice/social.md` |
+| 예제 | [`releases/speaker-diarization-vibevoice`](https://github.com/<owner>/<repository>/tree/releases/speaker-diarization-vibevoice/releases/speaker-diarization-vibevoice) |
+| 모델 카드 | [`microsoft/VibeVoice-ASR`](https://huggingface.co/microsoft/VibeVoice-ASR) |
+| 모델 카드 (Transformers, Open ASR Leaderboard 표) | [`microsoft/VibeVoice-ASR-HF`](https://huggingface.co/microsoft/VibeVoice-ASR-HF) |
+| MLX 변환본 | [`mlx-community/VibeVoice-ASR-4bit`](https://huggingface.co/mlx-community/VibeVoice-ASR-4bit) |
+| 논문 | [VibeVoice-ASR Technical Report, arXiv:2601.18184](https://arxiv.org/abs/2601.18184) |
+| 모델 저장소 | [`microsoft/VibeVoice`](https://github.com/microsoft/VibeVoice) |
+| 채점기 | [MeetEval](https://github.com/fgnt/meeteval), [Open ASR Leaderboard](https://github.com/huggingface/open_asr_leaderboard) |

diff --git a/releases/speaker-diarization-vibevoice/social.md b/releases/speaker-diarization-vibevoice/social.md
@@ -1,33 +1,22 @@
-# X post — VibeVoice-ASR
+# X 포스트
 
-Korean, X only. One post and one reply to it.
-
-## Post — attach `media/speaker-diarization-vibevoice.png` and `media/rtf-table.png`
+## 포스트
 
 ```
-회의 녹음을 넣으면 누가, 언제, 무슨 말을 했는지 한 번에 받아 적는 VibeVoice-ASR을 model-compose로 돌려봤습니다 🎙
-
-RTX 4090에서 17분 30초짜리 4인 회의를 3분 54초 만에 끝냈습니다 ⚡
-
-머신 3대 속도는 표로 붙였습니다 👇
+마이크로소프트 VibeVoice-ASR로 17분 29초짜리 회의 녹음을 받아 적었습니다 🎙
+RTX 4090(bfloat16)에서 3분 54초 걸렸고, 누가 언제 무슨 말을 했는지까지 한 번에 나옵니다 ✨
+머신별 속도는 표로 붙였습니다 👇
 ```
 
-Weighted length 216/280, from `assets/post-length.mjs`. The one number is the 4090's
-233.53-second run over 1049.35 seconds of audio, from `benchmarks/results/rtx-4090.json`.
+## 첨부
 
-`media/rtf-table.png` was rendered by `assets/rtf-table.mjs` from `rtx-4090.json`,
-`dgx-spark.json` and `macbook-m1.json`. `rtx-4090-smoke.json` is left out because it
-ran 60 seconds of audio against the others' 1049.35.
+| 순서 | 파일 |
+|---|---|
+| 1 | `media/speaker-diarization-vibevoice.png` |
+| 2 | `media/rtf-table.png` |
 
-## Reply to the post
+## 답글
 
 ```
 https://github.com/<owner>/<repository>/tree/releases/speaker-diarization-vibevoice/releases/speaker-diarization-vibevoice
 ```
-
-## What this post does not say
-
-The model card states the MIT licence and no out-of-scope use, no deployment
-restriction and no responsible-AI limitation, so there is no usage-scope quote to carry.
-The post stops short of recommending deployment, which is advice the model's own authors
-did not give.
